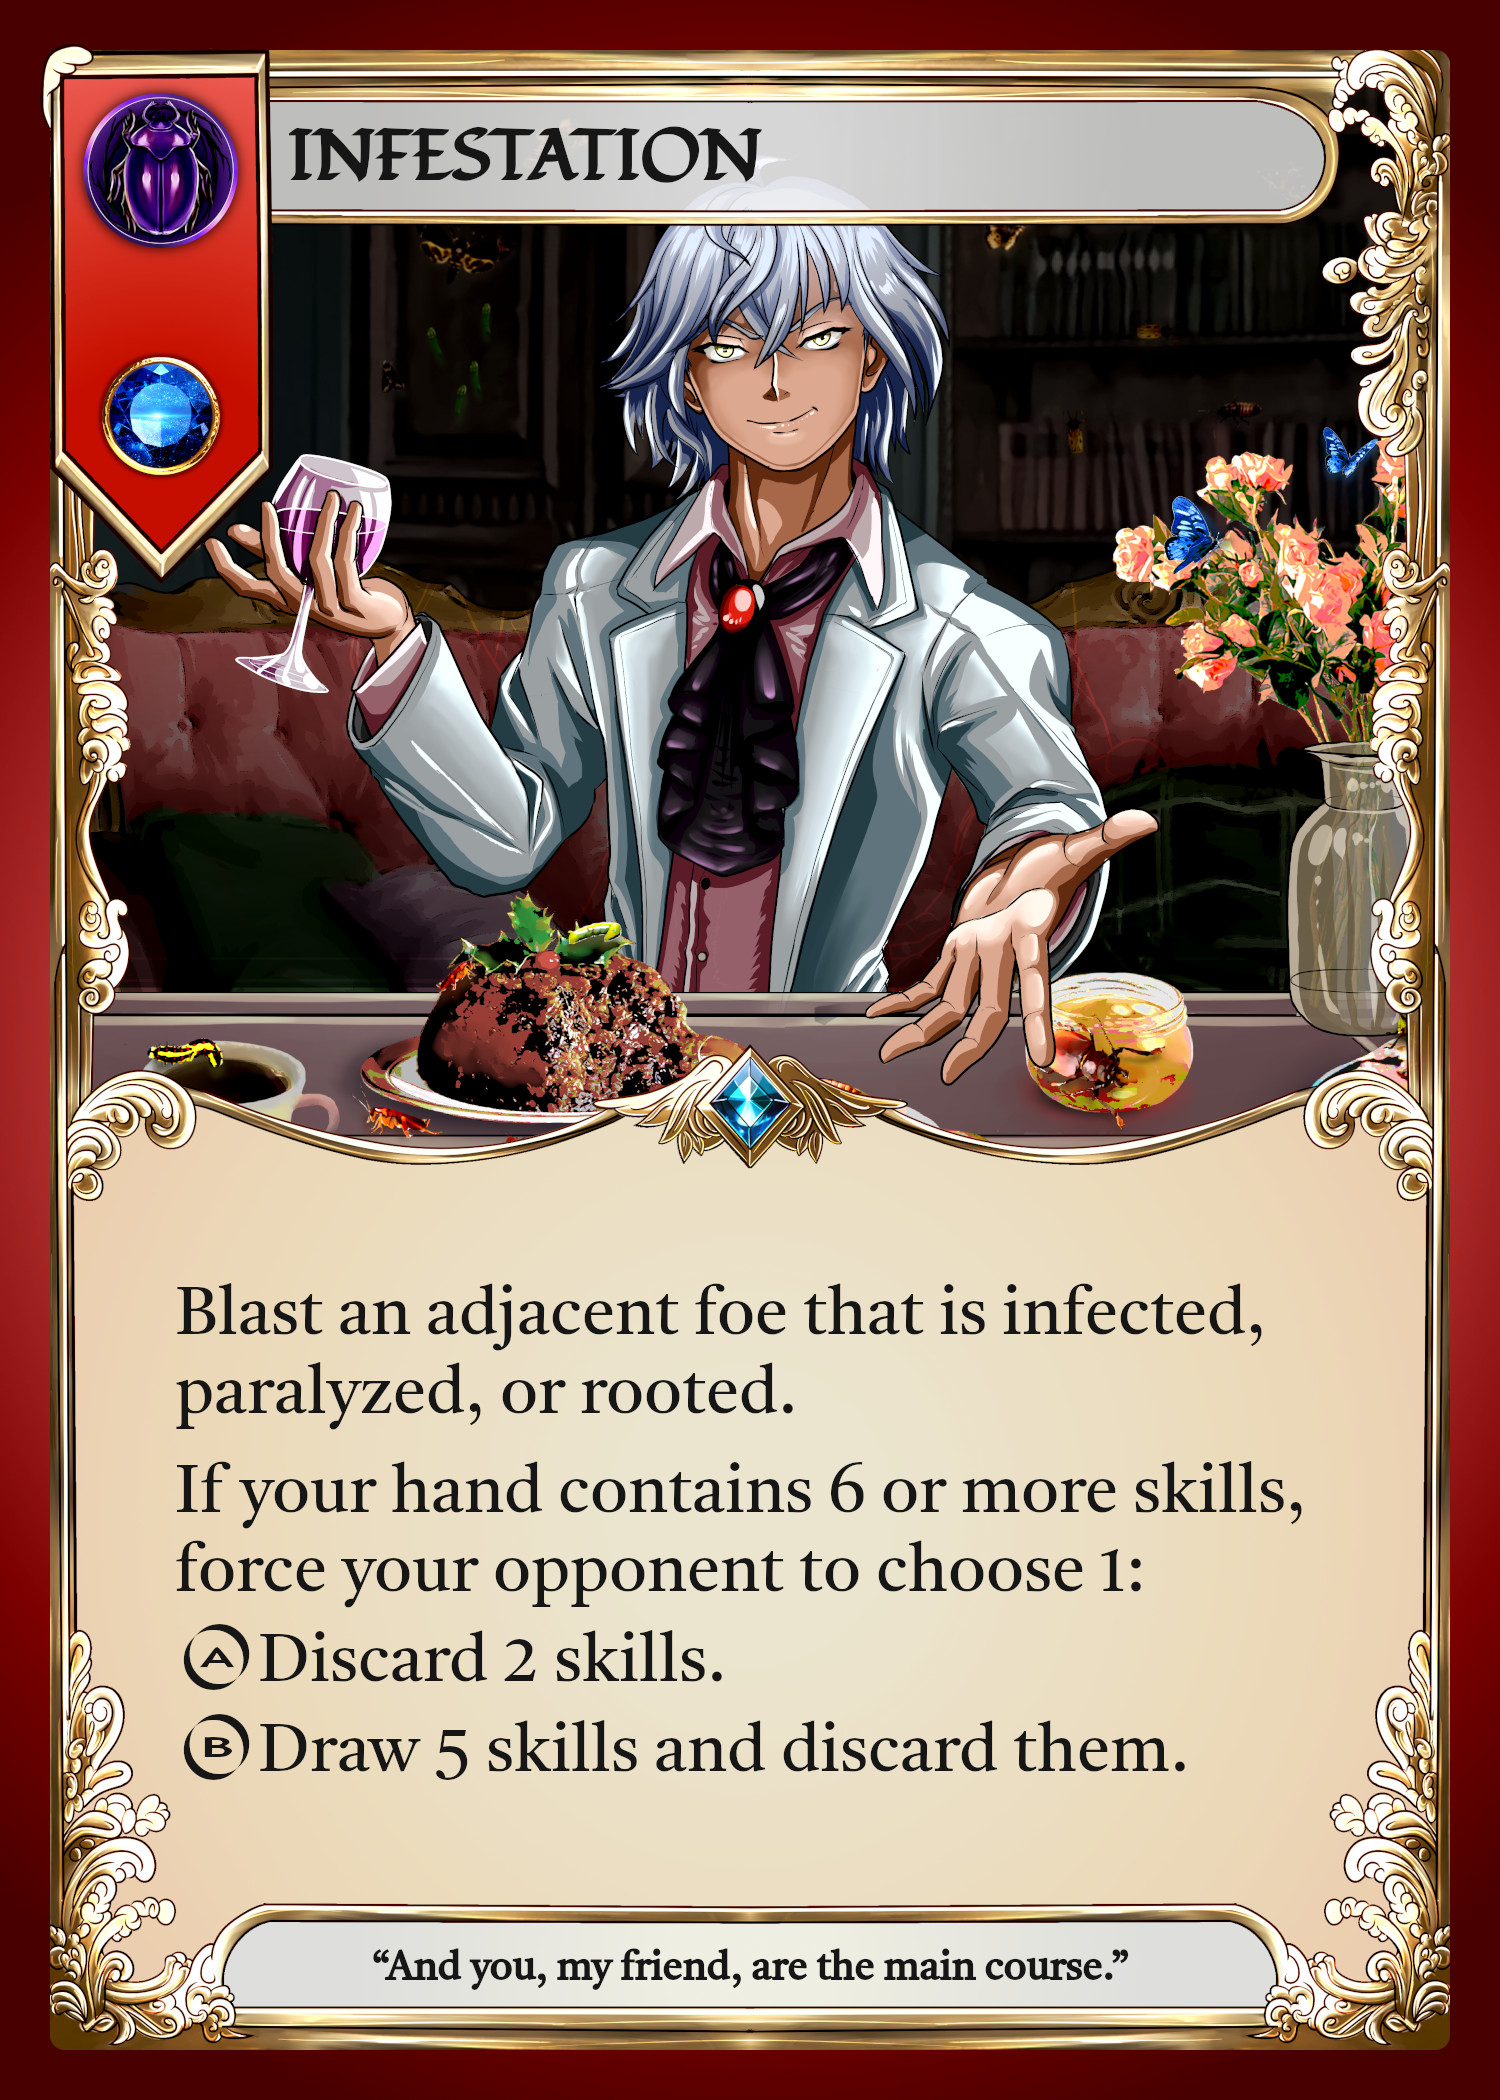
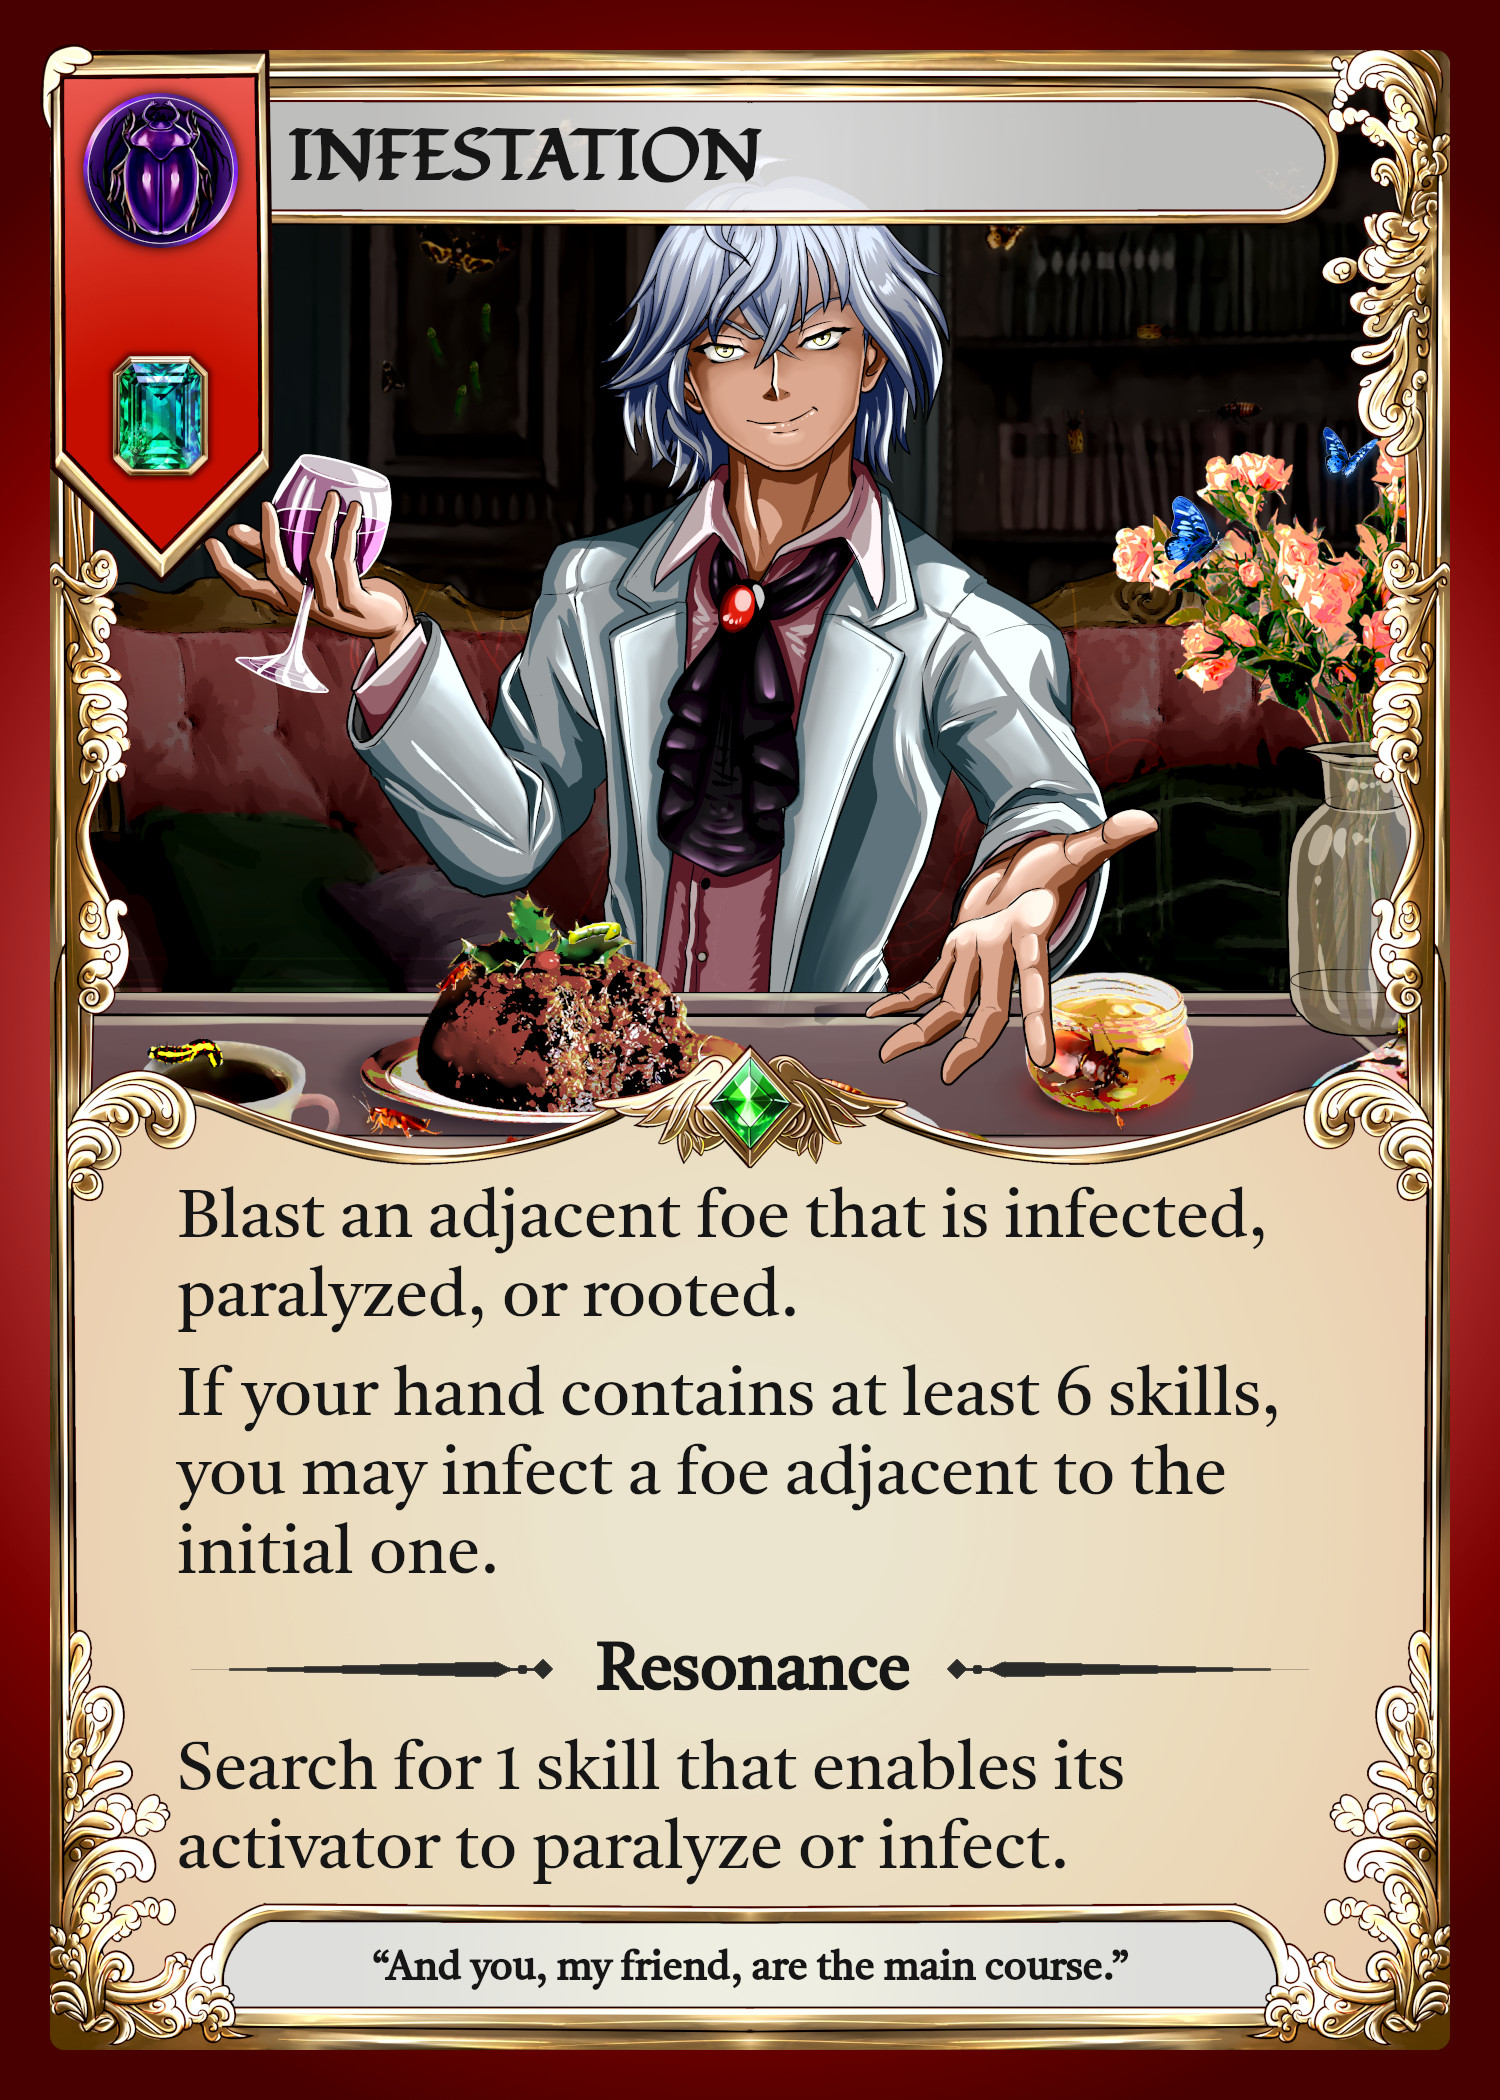
reworked Disruption Field into Aura Flux. Added Insect skill images. Allowed spectating without logging

Changed region(s): [[0.1227, 0.4952, 0.8587, 0.8976], [0.0613, 0.1548, 0.1533, 0.2476]]

diff --git a/src/hooks/useCardDatabase.jsx b/src/hooks/useCardDatabase.jsx
@@ -70,7 +70,7 @@ export const useCardDatabase = () => {
     makeSkillCard("Surge", SL, "Mana", "Standard", "06-01"),
     makeSkillCard("Diffusion", SL, "Mana", "Resonant", "06-02"),
     makeSkillCard("Aegis", SL, "Mana", "Contingent", "06-03"),
-    makeSkillCard("Disruption Field", 1, "Mana", "Burst", "06-04"),
+    makeSkillCard("Aura Flux", 1, "Mana", "Burst", "06-04"),
 
     makeSkillCard("Magnetic Shockwave", SL, "Metal", "Standard", "07-01"),
     makeSkillCard("Reinforce", SL, "Metal", "Resonant", "07-02"),
@@ -87,8 +87,8 @@ export const useCardDatabase = () => {
     makeSkillCard("Guardian Wings", SL, "Avian", "Contingent", "09-03"),
     makeSkillCard("Vanguard Fleet", 1, "Avian", "Burst", "09-04"),
 
-    makeSkillCard("Infestation", SL, "Insect", "Standard", "12-01"),
-    makeSkillCard("Virulent Venom", SL, "Insect", "Resonant", "12-02"),
+    makeSkillCard("Virulent Venom", SL, "Insect", "Standard", "12-01"),
+    makeSkillCard("Infestation", SL, "Insect", "Resonant", "12-02"),
     makeSkillCard("Perturb", SL, "Insect", "Contingent", "12-03"),
     makeSkillCard("Vector of Pestilence", 1, "Insect", "Burst", "12-04"),
 
@@ -199,6 +199,7 @@ export const useCardDatabase = () => {
       "07-04",
       "08-04",
       "09-04",
+      "12-04",
       // "SD-01",
     ];
   };
@@ -214,11 +215,32 @@ export const useCardDatabase = () => {
       "07-03",
       "08-03",
       "09-03",
+      "12-03",
+
       "SC-01",
       "SC-02",
       "SC-03",
       "SC-04",
       "SC-05",
+    ];
+  };
+
+  const infestationList = () => {
+    return [
+      //Paralyze
+      "03-04", //Cataclysmic Tempes
+      "04-02", //Upheaval
+      "04-03", //Pitfall Trap
+      "04-04", //Geomancy
+      "05-01", //Chain Lightning
+      "05-03", //Thunder Thaumaturge
+      "07-01", //Magnetic Shockwave
+      "07-04", //Arsenal Onslaught
+
+      //Infect
+      "12-01", //Virulent Venom
+      "12-02", //Infestation
+      "12-04", //Vector of Pestilence
     ];
   };
 
@@ -241,6 +263,8 @@ export const useCardDatabase = () => {
       "08-01", //Sow and Reap
       "08-04", //Castle of Thorns
       "09-01", //Raptor Blitz
+      "12-02", //Infestation
+      "12-03", //Perturb
     ];
   };
 
@@ -342,6 +366,7 @@ export const useCardDatabase = () => {
     getSkillIndex,
     allBurstSkills,
     allContingentSkills,
+    infestationList,
     pressTheAttackList,
     sovereignSkillList,
     starterAvelhemRepertoire,

diff --git a/src/hooks/useSkillEffects.jsx b/src/hooks/useSkillEffects.jsx
@@ -1564,12 +1564,12 @@ export const useSkillEffects = () => {
     return newGameState;
   };
 
-  const disruptionField1 = (unitInfo) => {
+  const auraFlux1 = (unitInfo) => {
     let newGameState = JSON.parse(JSON.stringify(localGameState));
     let unit = newGameState[unitInfo.player].units[unitInfo.unitIndex];
     const zones = JSON.parse(newGameState.zones);
 
-    //end "Activating Disruption Field" resolution
+    //end "Activating Aura Flux" resolution
     newGameState.currentResolution.pop();
 
     //give unit activationCounter
@@ -1591,11 +1591,11 @@ export const useSkillEffects = () => {
     if (unit.aether) {
       newGameState.currentResolution.push({
         resolution: "Mana Skill",
-        resolution2: "Disruption Field1",
+        resolution2: "Aura Flux1",
         unit: unit,
         details: {
-          reason: "Disruption Field",
-          title: "Disruption Field",
+          reason: "Aura Flux",
+          title: "Aura Flux",
           message:
             "You may spend your Aether to purge the Aether of all foes within 2 spaces.",
           no: "Skip",
@@ -1604,6 +1604,15 @@ export const useSkillEffects = () => {
           zones: zones,
         },
       });
+    }
+
+    const zonesWithAdjacentAllies = getZonesWithAllies(unit, 1, false);
+
+    for (let z of zonesWithAdjacentAllies) {
+      const zone = zones[Math.floor(z / 5)][z % 5];
+      const u = newGameState[zone.player].units[zone.unitIndex];
+
+      newGameState = aetherRestoreSpecial(newGameState, u);
     }
 
     return newGameState;
@@ -2278,14 +2287,6 @@ export const useSkillEffects = () => {
       ? (unit.temporary.activation += 1)
       : (unit.temporary.activation = 1);
 
-    // victim.enhancements.shield
-    //   ? (victim.enhancements.shield = Math.max(1, victim.enhancements.shield))
-    //   : (victim.enhancements.shield = 1);
-
-    // if (victim.unitClass === "Avian Scion") {
-    //   newGameState = aetherRestoreSpecial(newGameState, unit);
-    // }
-
     newGameState.currentResolution.push({
       resolution: "Avian Skill",
       resolution2: "Guardian Wings Float",
@@ -2518,8 +2519,8 @@ export const useSkillEffects = () => {
         return diffusionR2(a);
       case "aegis1":
         return aegis1(a, b);
-      case "disruptionField1":
-        return disruptionField1(a);
+      case "auraFlux1":
+        return auraFlux1(a);
 
       //Metal
       case "magneticShockwave1":

diff --git a/src/hooks/useGetImages.jsx b/src/hooks/useGetImages.jsx
@@ -38,7 +38,7 @@ import ManaAvelhemRecover from "../assets/avelhemcards/ManaAvelhemRecover.jpg";
 import Surge from "../assets/skillcards/Surge.jpg";
 import Diffusion from "../assets/skillcards/Diffusion.jpg";
 import Aegis from "../assets/skillcards/Aegis.jpg";
-import DisruptionField from "../assets/skillcards/DisruptionField.jpg";
+import AuraFlux from "../assets/skillcards/AuraFlux.jpg";
 
 import MetalAvelhem from "../assets/avelhemcards/MetalAvelhem.jpg";
 import MetalAvelhemRecover from "../assets/avelhemcards/MetalAvelhemRecover.jpg";
@@ -63,7 +63,10 @@ import VanguardFleet from "../assets/skillcards/VanguardFleet.jpg";
 
 import InsectAvelhem from "../assets/avelhemcards/InsectAvelhem.jpg";
 import InsectAvelhemRecover from "../assets/avelhemcards/InsectAvelhemRecover.jpg";
+import VirulentVenom from "../assets/skillcards/VirulentVenom.jpg";
 import Infestation from "../assets/skillcards/Infestation.jpg";
+import Perturb from "../assets/skillcards/Perturb.jpg";
+import VectorOfPestilence from "../assets/skillcards/VectorOfPestilence.jpg";
 
 import HeirsEndeavor from "../assets/skillcards/HeirsEndeavor.jpg";
 import TeaForTwo from "../assets/skillcards/TeaForTwo.jpg";
@@ -241,7 +244,7 @@ export const useGetImages = () => {
     Surge,
     Diffusion,
     Aegis,
-    DisruptionField,
+    AuraFlux,
 
     MetalAvelhem,
     MagneticShockwave,
@@ -262,7 +265,10 @@ export const useGetImages = () => {
     VanguardFleet,
 
     InsectAvelhem,
+    VirulentVenom,
     Infestation,
+    Perturb,
+    VectorOfPestilence,
 
     HeirsEndeavor,
     TeaForTwo,
@@ -540,7 +546,7 @@ export const useGetImages = () => {
       case "06-03":
         return Aegis;
       case "06-04":
-        return DisruptionField;
+        return AuraFlux;
       case "AmplifyAura":
         return AmplifyAura;
       case "AmbianceAssimilation":
@@ -643,7 +649,13 @@ export const useGetImages = () => {
       case "12Alt":
         return InsectAvelhemRecover;
       case "12-01":
+        return VirulentVenom;
+      case "12-02":
         return Infestation;
+      case "12-03":
+        return Perturb;
+      case "12-04":
+        return VectorOfPestilence;
 
       default:
         return "";

diff --git a/src/pages/Game.jsx b/src/pages/Game.jsx
@@ -192,16 +192,27 @@ export default function Game() {
       });
     } else if (gameData) {
       if (!user) {
-        setPlayerStatus("login");
-        setBanner({
-          title: (
-            <>
-              INVITED BY: <br />
-              {gameData.hostName}
-            </>
-          ),
-          buttonText: <>Log in to play</>,
-        });
+        if (!gameData.guestId) {
+          setPlayerStatus("login");
+          setBanner({
+            title: (
+              <>
+                INVITED BY: <br />
+                {gameData.hostName}
+              </>
+            ),
+            buttonText: <>Log in to play</>,
+          });
+        } else {
+          if (
+            gameData.gameState.guest.skillRepertoire &&
+            gameData.gameState.host.skillRepertoire
+          )
+            setPlayerStatus("spectate");
+          else {
+            setPlayerStatus("spectate wait");
+          }
+        }
       } else if (userRole === "host") {
         if (!gameData.guestId) {
           setPlayerStatus("waiting");

diff --git a/src/hooks/UseCurrentResolution.jsx b/src/hooks/UseCurrentResolution.jsx
@@ -2328,7 +2328,7 @@ const UseCurrentResolution = (props) => {
           break;
 
         case "Diffusion4":
-        case "Disruption Field1":
+        case "Aura Flux1":
           return (
             <>
               {self === lastRes.unit.player && !props.hideModal && (
@@ -2377,11 +2377,9 @@ const UseCurrentResolution = (props) => {
             </>
           );
 
-        case "Activating Disruption Field":
+        case "Activating Aura Flux":
           if (self === lastRes.unit.player) {
-            props.updateLocalState(
-              applySkill("disruptionField1", lastRes.unit)
-            );
+            props.updateLocalState(applySkill("auraFlux1", lastRes.unit));
           }
           break;
       }

diff --git a/src/components/boardComponents/Piece.css b/src/components/boardComponents/Piece.css
@@ -766,15 +766,15 @@ filter: sepia(1) saturate(10000%) hue-rotate(-30deg);
 
 @keyframes starspinpulse {
   0% {
-    transform: rotate(0deg) scale(0.78);
+    transform: rotate(0deg) scale(0.6);
   }
 
   50% {
-    transform: rotate(180deg) scale(1.2);
+    transform: rotate(180deg) scale(1.4);
   }
 
   100% {
-    transform: rotate(360deg) scale(0.78);
+    transform: rotate(360deg) scale(0.6);
   }
 }
 

diff --git a/src/components/modals/YouMayNoYes.jsx b/src/components/modals/YouMayNoYes.jsx
@@ -272,7 +272,7 @@ const YouMayNoYes = (props) => {
         );
         break;
 
-      case "Disruption Field": // "Disruption Field1"
+      case "Aura Flux": // "Aura Flux1"
         unit.aether = 0;
         const zones = props.details.zones;
 
